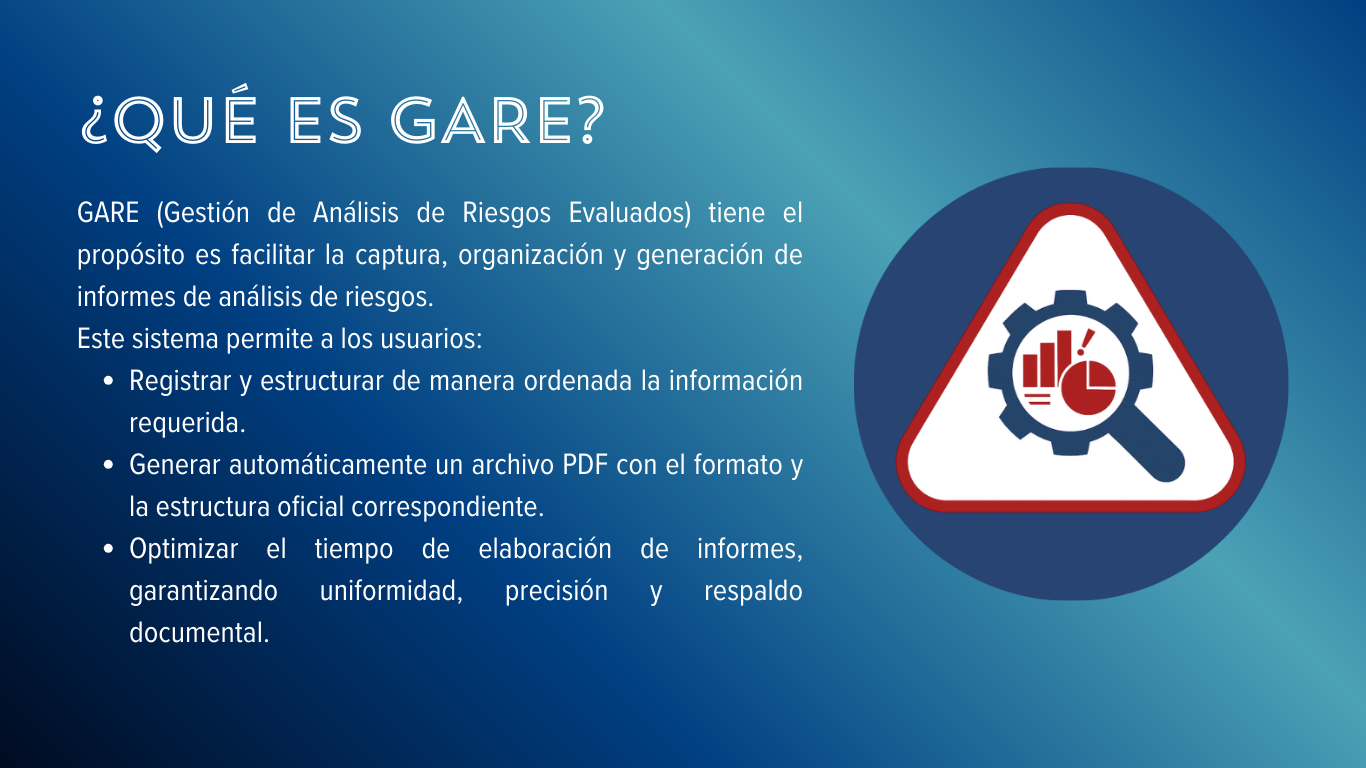
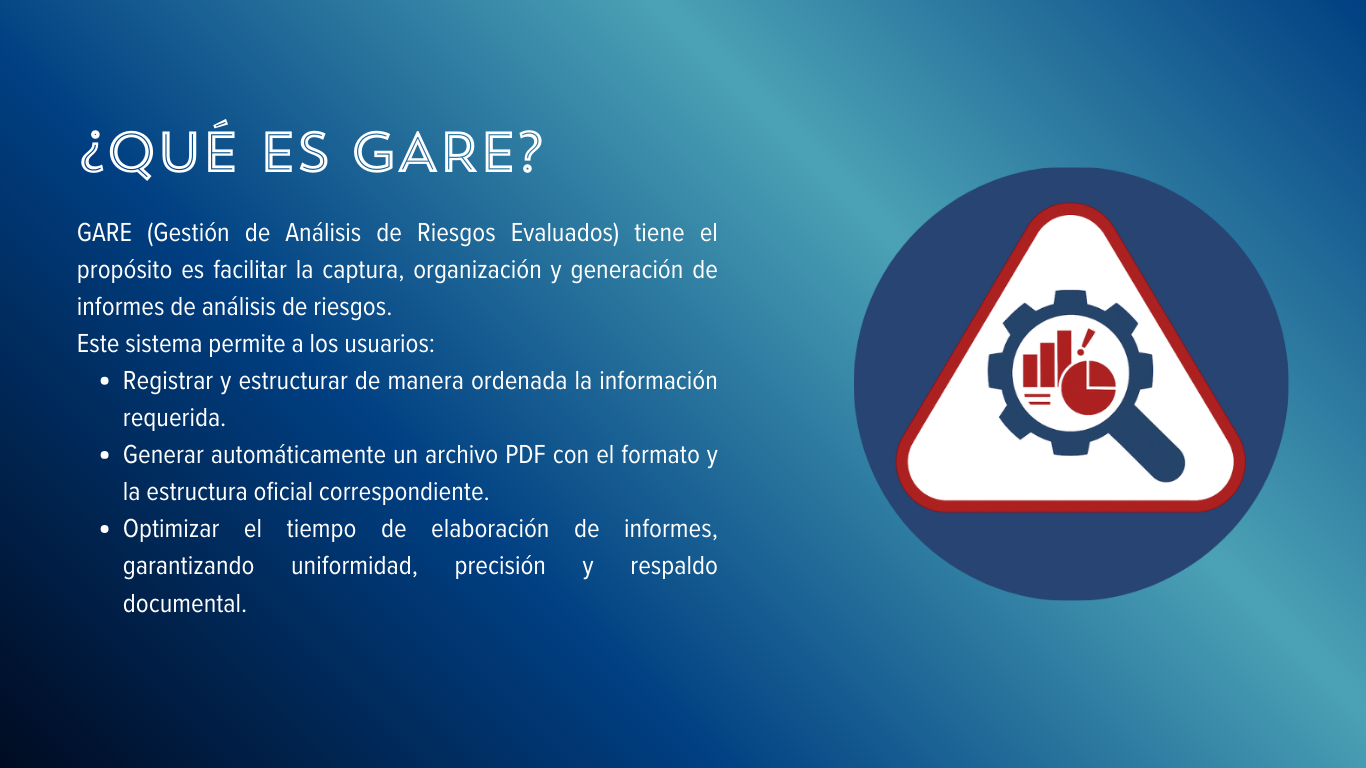
Corrección del carrusel
Se volvió responsivo el carrusel para que se pueda adaptar a las diferentes pantallas

Changed region(s): [[0.0615, 0.125, 0.5842, 0.8438]]

diff --git a/resources/views/dashboard.blade.php b/resources/views/dashboard.blade.php
@@ -71,7 +71,7 @@
 
     <!-- slides -->
     <!-- Change min-h-[50svh] to your preferred height size -->
-    <div class="relative min-h-[50svh] w-full">
+    <div class="relative w-full aspect-[16/9] sm:aspect-[4/3] md:aspect-[16/9] lg:aspect-[21/9]">
         <template x-for="(slide, index) in slides">
             <div x-cloak x-show="currentSlideIndex == index + 1" class="absolute inset-0" x-transition.opacity.duration.1000ms>
                 
@@ -81,7 +81,8 @@
                     <p class="lg:w-1/2 w-full text-pretty text-sm text-zinc-200" x-text="slide.description" x-bind:id="'slide' + (index + 1) + 'Description'"></p>
                 </div>
 
-                <img class="absolute w-full h-full inset-0 object-cover text-neutral-600 dark:text-zinc-200" x-bind:src="slide.imgSrc" x-bind:alt="slide.imgAlt" />
+                <img class="absolute inset-0 h-full w-full object-cover object-center" x-bind:src="slide.imgSrc" x-bind:alt="slide.imgAlt" />
+
             </div>
         </template>
     </div>
